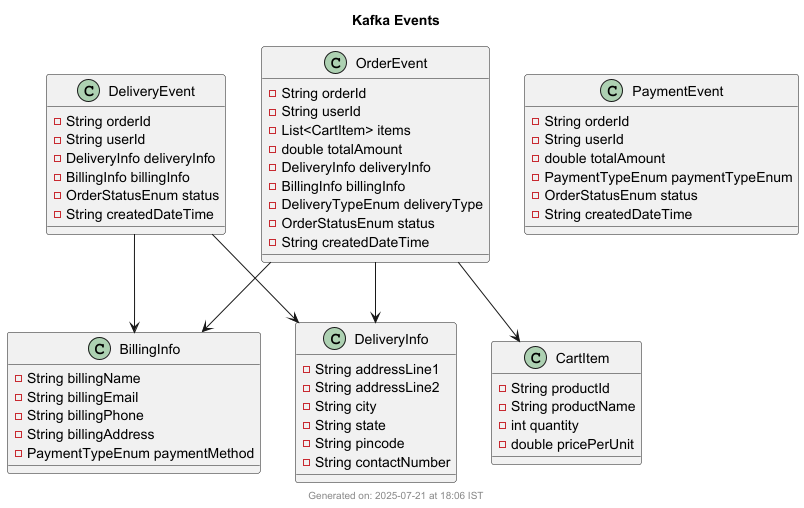
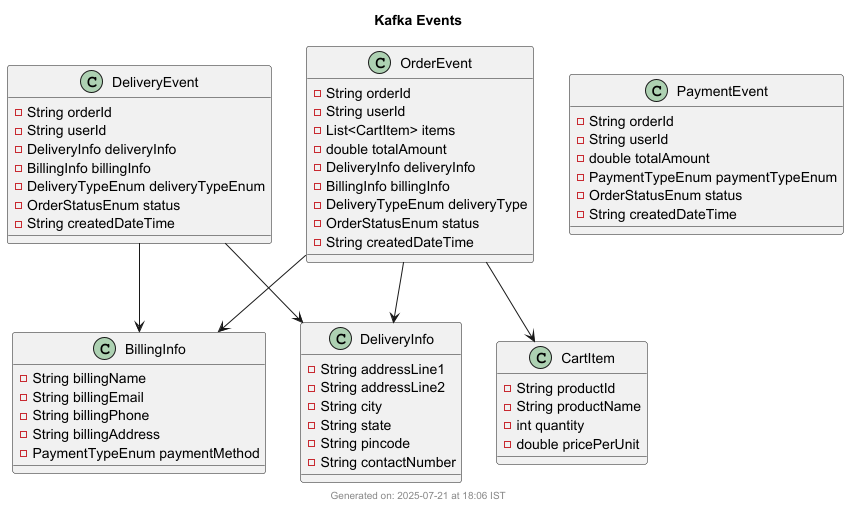
updated delivery event to include DeliveryType

diff --git a/src/main/java/com/ecommerce/shared/events/DeliveryEvent.java b/src/main/java/com/ecommerce/shared/events/DeliveryEvent.java
@@ -1,5 +1,6 @@
 package com.ecommerce.shared.events;
 
+import com.ecommerce.shared.enums.DeliveryTypeEnum;
 import com.ecommerce.shared.enums.OrderStatusEnum;
 import com.ecommerce.shared.model.BillingInfo;
 import com.ecommerce.shared.model.DeliveryInfo;
@@ -11,6 +12,7 @@ public class DeliveryEvent {
     private String userId;
     private DeliveryInfo deliveryInfo;
     private BillingInfo billingInfo;
+    private DeliveryTypeEnum deliveryTypeEnum;
     private OrderStatusEnum status;
     private String createdDateTime;
 }
